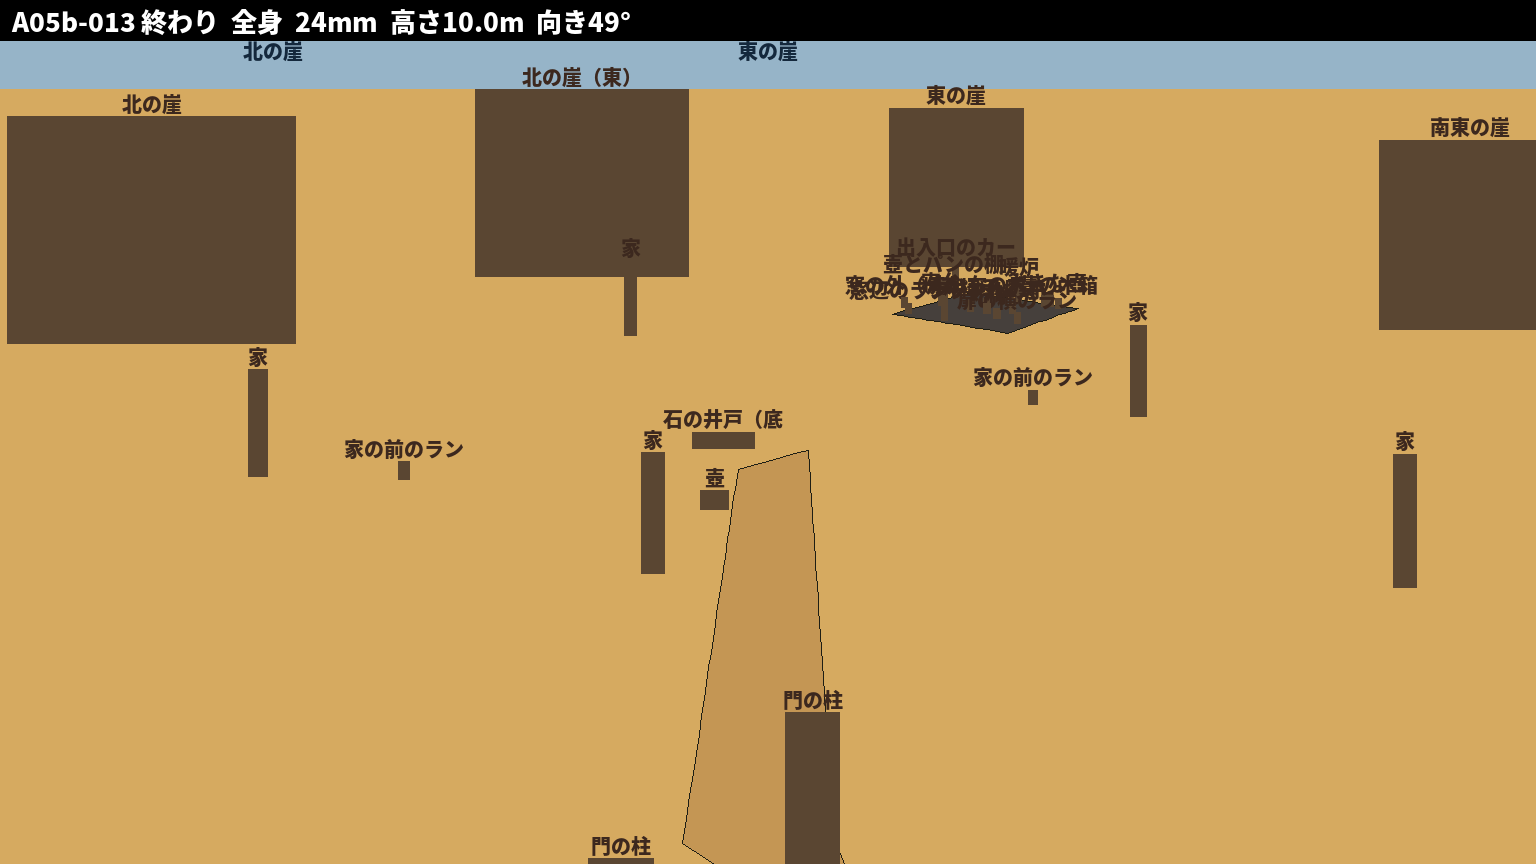
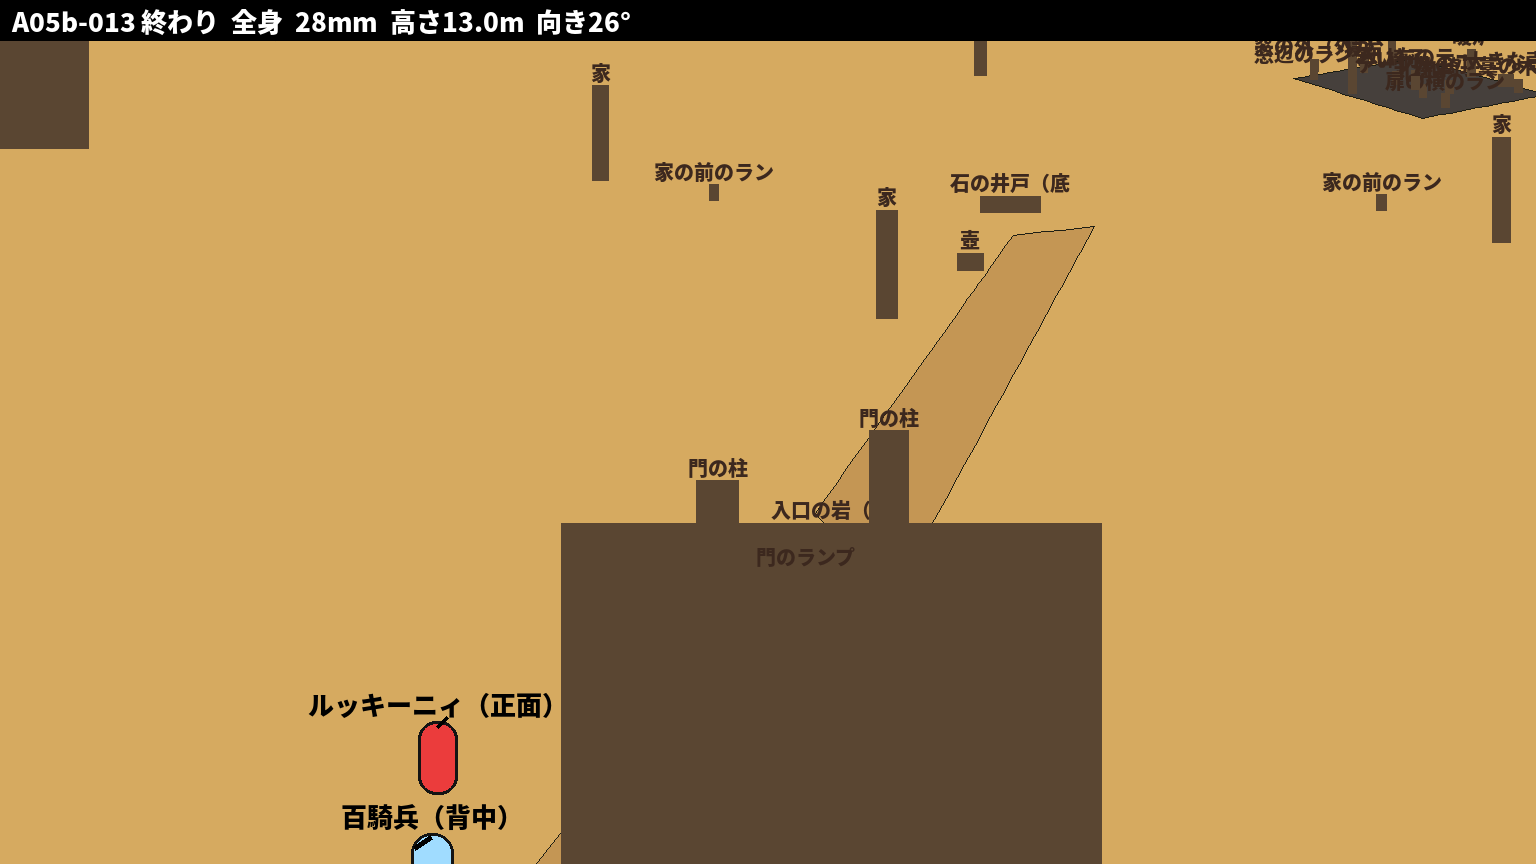
A05b の動きの入った下絵（0.5秒ごとのコマ）を作り、カメラと動きを直す
- 013: 岩の隙間の中でカメラが岩に入らないよう、追う位置を西へ。終わりは後ろへ高く上がり、岩の隙間の先に二人、その向こうに夕日の村
- 014: カメラを二人の北西の横へ。ルッキーニィの走り去る先を家の陰から出す
- 015: 南東から井戸を手前に、西日の逆光
- 016・017: 百騎兵とティトの位置を少し北へ、肩越しのカメラを高く
- 018: 扉側の壁ぞいを西へ動くトラックに
- 019: ティトを窓の左に立たせ、最後は窓のすぐ前から星空を見上げる
- 020: 窓明かりから上がりつつ家の北を回り、北東の高い所から村全体（手前にティトの家）
- previs.py: 家の窓明かり、井戸の口、カットごとに材質を作り直す（2カット目で落ちた不具合）

Claude-Session: https://claude.ai/code/session_01FyK1WavrjPY2DCSfzA7vXR

diff --git a/tools/previs.py b/tools/previs.py
@@ -400,6 +400,16 @@ def build_extra(name, pr, x, y, lit):
         w, d, h = pr.get("w", 6), pr.get("d", 5), pr.get("h", 3)
         box(mat_of("wood"), f"ENV_{name}", x, y, w, d, h, 0.0, rot)
         roof_on(mat_of("roof"), f"ENV_{name}_roof", x, y, w + 0.6, d + 0.6, h, pr.get("roof", 1.8), rot)
+        n = pr.get("windows", 0)
+        if n:   # 窓明かり: 南と北の壁に、ランプの強さに合わせて光る窓（夕方は弱く、夜は強く）
+            win = make_mat(f"{name}_win", (1.0, 0.7, 0.35), emit=1.5 * lamps)
+            a = math.radians(rot)
+            for k in range(n):
+                u = (k + 1) / (n + 1) - 0.5
+                for sy in (-1, 1):
+                    dx, dy = u * w, sy * (d / 2 + 0.02)
+                    wx, wy = x + dx * math.cos(a) - dy * math.sin(a), y + dx * math.sin(a) + dy * math.cos(a)
+                    box(win, f"ENV_{name}_win{k}{sy}", wx, wy, 0.6, 0.03, 0.6, 1.2, rot)
         return True
     if name.startswith("pillar"):
         r = pr.get("r", 0.3)
@@ -435,6 +445,7 @@ def build_extra(name, pr, x, y, lit):
 
 def build_site(lay, lighting=None):
     """場所（world/*-layout.yaml）を、平らな色分けと簡単な立体で作る。lighting は layout の lighting の名前（夕方・夜など）。"""
+    MATS.clear()   # カットごとに場面を作り直すので、前のカットの材質は使えない
     g = lay.get("ground") or {}
     gcol = tuple(v / 255 for v in g.get("color", [41, 158, 82]))
     swamp = make_mat("swamp", gcol)
@@ -516,8 +527,8 @@ def build_site(lay, lighting=None):
             if pr.get("glow"):   # 井戸の口: 暗い穴と、底のかすかな光
                 hole = make_mat(f"{name}_hole", (0.02, 0.02, 0.02))
                 prim("cyl", hole, f"ENV_{name}_hole", loc=bl((x, y), 0.805), radius=pr.get("r", 0.9) * 0.72, depth=0.01)
-                g = make_mat(f"{name}_glow", tuple(v / 255 for v in pr["glow"]), emit=0.8)
-                prim("cyl", g, f"ENV_{name}_glow", loc=bl((x, y), 0.81), radius=pr.get("r", 0.9) * 0.25, depth=0.005)
+                g = make_mat(f"{name}_glow", tuple(v / 255 for v in pr["glow"]), emit=0.35)
+                prim("cyl", g, f"ENV_{name}_glow", loc=bl((x, y), 0.81), radius=pr.get("r", 0.9) * 0.16, depth=0.005)
             continue
         if build_extra(name, pr, x, y, lit):
             continue

diff --git a/episodes/A/scenes/A05b/gen/staging_report.md b/episodes/A/scenes/A05b/gen/staging_report.md
@@ -5,20 +5,20 @@
 
 | カット | 画 | カメラ（どこから・レンズ・向き） | 始め（左→右） | 終わり（動く場合） | 背景 |
 | --- | --- | --- | --- | --- | --- |
-| 013 | 全身 | 場の外・35mm・355° | 百（中央・背中）、ル（中央・背中） | 人物なし | 北の崖〔村 全景〕 |
-| 014 | 全身 | 場の外・35mm・158° | 百（中央・正面） | ル（中央・背中） | 東の崖〔村 一角〕／南の崖〔村 路地〕 |
+| 013 | 全身 | 場の外・35mm・4° | ル（中央・背中）、百（中央・背中） | 百（左・背中）、ル（左・正面） | 北の崖〔村 全景〕 |
+| 014 | 全身 | 場の外・30mm・138° | ル（左・斜め前（画面右向き））、百（中央・斜め前（画面左向き）） | ル（中央・背中） | 東の崖〔村 一角〕／南の崖〔村 路地〕 |
 | 015 | 引き | 場の外・低め・32mm・328° | 百（中央・斜め前（画面右向き）） | 人物なし | 村の中ほど〔村 全景〕 |
 | 016 | 全身 | ティトの家の床・30mm・3° | 百（左・背中）、テ（中央・正面） | 百（左・背中）、テ（中央・正面） | ティトの家の中（奥）〔ティトの家 入口から〕 |
 | 017 | 寄り | ティトの家の床・低め・50mm・18° | テ（中央・正面）、百（右・斜め後ろ（画面左向き）） | テ（中央・正面） | ティトの家の中（扉側）〔ティトの家 扉側〕 |
-| 018 | 全身 | ティトの家の床・28mm・243° | 百（左・斜め前（画面右向き））、テ（中央・斜め後ろ（画面左向き）） | テ（中央・斜め前（画面右向き）） | ティトの家の中（扉側）〔ティトの家 扉側〕 |
-| 019 | 寄り | ティトの家の床・35mm・323° | テ（中央・斜め後ろ（画面右向き）） | テ（左・正面） | ティトの家の中（窓側）〔ティトの家 窓側〕 |
+| 018 | 全身 | ティトの家の床・28mm・330° | 百（左・斜め後ろ（画面右向き））、テ（中央・正面） | テ（中央・背中） | ティトの家の中（奥）〔ティトの家 入口から〕 |
+| 019 | 寄り | ティトの家の床・35mm・315° | テ（中央・斜め後ろ（画面右向き）） | 人物なし | ティトの家の中（窓側）〔ティトの家 窓側〕 |
 | 020 | 寄り | 場の外・35mm・153° | 人物なし | 人物なし | 星空の下の村〔村 俯瞰〕 |
 
 ## 確かめた結果
 
 - 会話の軸をまたいだカット: 0
-- 映っている人物の位置・向きの飛び（カットの間で説明なしに変わる）: 3（014 百の位置、015 百の位置、016 百の位置）
-- 画面の外で動いたもの（映っていない間の移動・向き替え）: 1（014 ルの位置）
-- 映さないことにしたのに画面に入る人物: 3カット（013 テ、018 ル、020 テル百）
+- 映っている人物の位置・向きの飛び（カットの間で説明なしに変わる）: 4（014 ルの位置、014 百の位置、015 百の位置、016 百の位置）
+- 画面の外で動いたもの（映っていない間の移動・向き替え）: 0
+- 映さないことにしたのに画面に入る人物: 2カット（013 テ、020 テル百）
 - 人物の重なり（0.45m 未満）: 0
 - カメラの単調さ（D-058。同じ向き3カット以上・止め3カット以上・同じ高さ4カット以上）: 0
